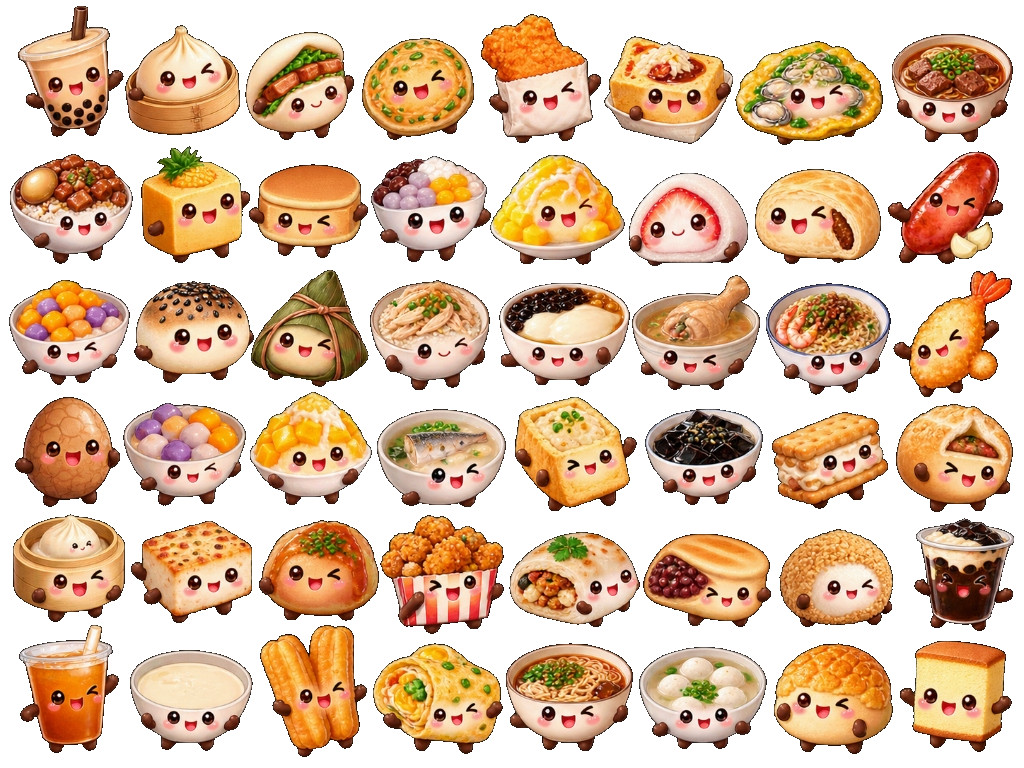
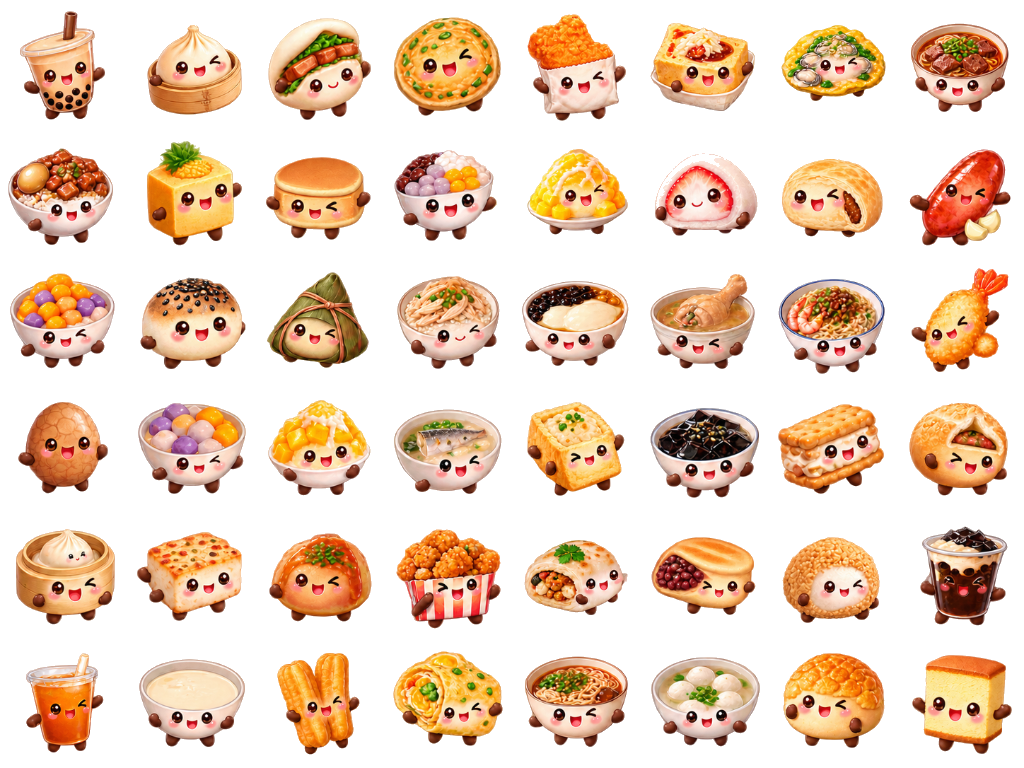
fix: 替換精選頭像圖鑑為全新無跨格圖檔並加入快取版本識別

diff --git a/js/app.js b/js/app.js
@@ -17389,7 +17389,7 @@ class App {
       fruits: {
         key: 'fruits',
         name: '蔬菜水果版',
-        url: 'images/avatar_preset_fruits.png',
+        url: 'images/avatar_preset_fruits.png?v=2',
         count: 48,
         cols: 8,
         rows: 6
@@ -17397,7 +17397,7 @@ class App {
       snacks: {
         key: 'snacks',
         name: '食品零食版',
-        url: 'images/avatar_preset_snacks.png',
+        url: 'images/avatar_preset_snacks.png?v=2',
         count: 48,
         cols: 8,
         rows: 6
@@ -17405,7 +17405,7 @@ class App {
       taiwan: {
         key: 'taiwan',
         name: '台灣特色小吃版',
-        url: 'images/avatar_preset_taiwan.png',
+        url: 'images/avatar_preset_taiwan.png?v=2',
         count: 48,
         cols: 8,
         rows: 6

diff --git a/index.html b/index.html
@@ -5883,7 +5883,7 @@ Python</pre>
   <script src="js/timer_music_manager.js?v=306"></script>
   <script src="js/matching_quiz.js?v=380"></script>
   <script src="js/quiz.js?v=391"></script>
-  <script src="js/app.js?v=425"></script>
+  <script src="js/app.js?v=426"></script>
   <script src="js/classics_quiz.js?v=380"></script>
   <script src="js/song_quiz.js?v=382"></script>
   <script src="js/video_quiz.js?v=391"></script>

diff --git a/SYSTEM_LOG.md b/SYSTEM_LOG.md
@@ -1,4 +1,16 @@
 # System Log
+## 2026-10-26 - 更新三大精選頭像圖鑑為全新無跨格精準圖檔 (修復切分裁切時鄰近角色邊緣溢出問題)
+- 影響檔案：`index.html`, `js/app.js`, `SYSTEM_LOG.md`, `images/avatar_preset_fruits.png`, `images/avatar_preset_snacks.png`, `images/avatar_preset_taiwan.png`。
+- 修改項目：
+  1. **替換全新生成之三大精選頭像圖鑑 (`images/avatar_preset_*.png`)**：
+     - 替換「蔬菜水果版」、「食品零食版」及「台灣特色小吃版」三張全新圖鑑圖檔，全面解決原圖鑑角色過於靠近隔線、裁切時滲入鄰格局部圖像之問題。
+     - 執行邊界像素精確檢驗，所有水平線（y=128, 256, 384, 512, 640）與垂直線（x=128, 256, 384, 512, 640, 768, 896）邊界像素透明度皆為 100%，48 個角色完全獨立置中於自身 128×128 格位內。
+     - 採用高相容 BFS 邊界透明去背，去除白底背景，Avatar 圓形頭像呈現乾淨俐落無雜邊。
+     - 為精選圖鑑資源路徑加上 `?v=2` 快取版本識別，更新 `app.js?v=426` 確保師生端即時載入最新圖檔。
+  2. **合規檢測**：
+     - 通過 `node --check js/app.js` 與 `npm run check:syntax` 語法檢測。
+     - 全文嚴格遵守「記錄」用語規範，無「紀錄」禁字。
+
 ## 2026-10-26 - 班級專屬頭像管理新增三大精選圖鑑版本（蔬菜水果、食品零食、台灣特色小吃免生成一鍵切換）
 - 影響檔案：`index.html`, `js/app.js`, `SYSTEM_LOG.md`, `images/avatar_preset_fruits.png`, `images/avatar_preset_snacks.png`, `images/avatar_preset_taiwan.png`。
 - 修改項目：
